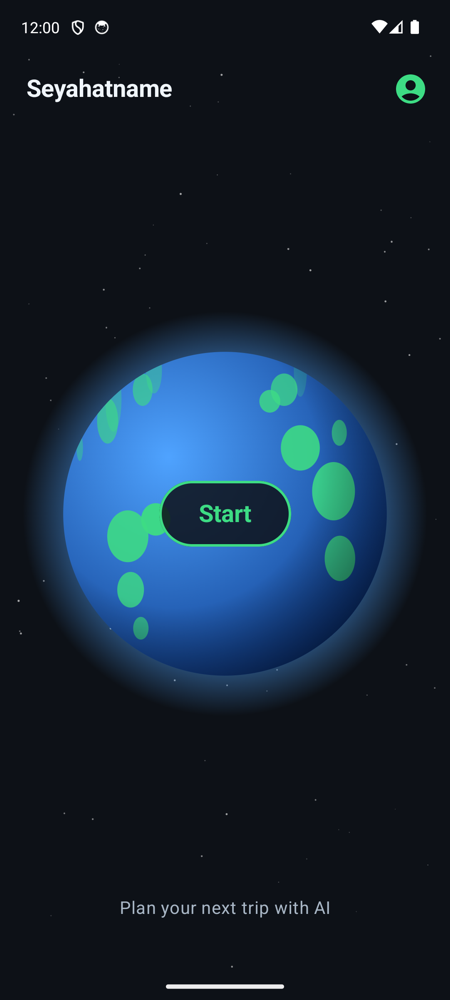
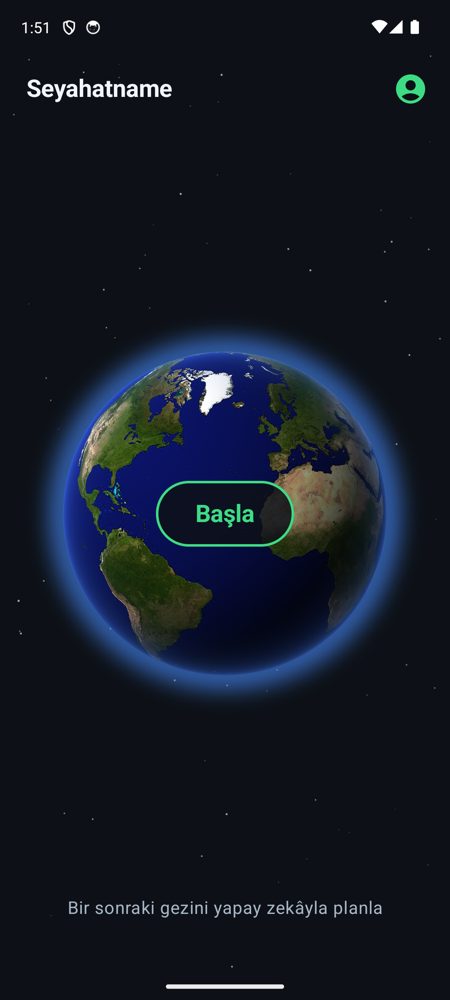
feat: show a photographic Earth on the home screen
The drawn globe looked like a toy. On Android 13+ the Earth is now
NASA's Blue Marble imagery (public domain, 1920x960, via Wikimedia
Commons) wrapped on a sphere by an AGSL shader: tilted so the north
shows, Turkey facing the viewer at launch, lit from the upper left
with a dark night side, a blue haze toward the rim and an atmosphere
glow, turning once a minute. The oceans of the source image are lifted
toward the blue seen from orbit. Older phones, and the Moon and Sun
themes, keep the Canvas drawing.

Changed region(s): [[0.0933, 0.341, 0.9022, 0.713], [0.1556, 0.899, 0.84, 0.93], [0.0622, 0.0, 0.2489, 0.031]]

diff --git a/app/src/main/java/com/ogzhngms/seyahatname/ui/Planet.kt b/app/src/main/java/com/ogzhngms/seyahatname/ui/Planet.kt
@@ -1,24 +1,36 @@
 package com.ogzhngms.seyahatname.ui
 
+import android.graphics.BitmapFactory
+import android.graphics.BitmapShader
+import android.graphics.RuntimeShader
+import android.graphics.Shader
+import android.os.Build
+import androidx.annotation.RequiresApi
 import androidx.compose.animation.core.LinearEasing
 import androidx.compose.animation.core.animateFloat
 import androidx.compose.animation.core.infiniteRepeatable
 import androidx.compose.animation.core.rememberInfiniteTransition
 import androidx.compose.animation.core.tween
 import androidx.compose.foundation.Canvas
+import androidx.compose.foundation.layout.Box
 import androidx.compose.foundation.layout.aspectRatio
 import androidx.compose.runtime.Composable
 import androidx.compose.runtime.getValue
+import androidx.compose.runtime.remember
 import androidx.compose.ui.Modifier
+import androidx.compose.ui.draw.drawBehind
 import androidx.compose.ui.geometry.Offset
 import androidx.compose.ui.geometry.Rect
 import androidx.compose.ui.geometry.Size
 import androidx.compose.ui.graphics.Brush
 import androidx.compose.ui.graphics.Color
 import androidx.compose.ui.graphics.Path
+import androidx.compose.ui.graphics.ShaderBrush
 import androidx.compose.ui.graphics.drawscope.DrawScope
 import androidx.compose.ui.graphics.drawscope.clipPath
+import androidx.compose.ui.platform.LocalContext
 import com.ogzhngms.seyahatname.Planet
+import com.ogzhngms.seyahatname.R
 import kotlin.math.cos
 import kotlin.math.sin
 import kotlin.math.sqrt
@@ -40,9 +52,78 @@ private val CRATERS = listOf(
 )
 private val SUNSPOTS = listOf(Spot(-40f, 15f, 0.12f), Spot(60f, -20f, 0.10f), Spot(150f, 30f, 0.14f), Spot(-140f, -35f, 0.09f))
 
-// The home-screen planet, turning once every 40 seconds.
+// The Earth from NASA's Blue Marble imagery, wrapped on a sphere on the GPU (Android 13+).
+// Tilted so the north shows, Turkey faces the viewer at start, one turn a minute.
+private const val EARTH_SHADER = """
+uniform shader earth;
+uniform float2 size;
+uniform float2 textureSize;
+uniform float turn;
+
+const float PI = 3.14159265;
+const float TILT = 0.40;
+const float START_LON = 0.61;
+
+half4 main(float2 coord) {
+    float r = min(size.x, size.y) * 0.4;
+    float2 p = (coord - size * 0.5) / r;
+    float d = length(p);
+    float edge = 1.5 / r;
+    float halo = smoothstep(1.28, 1.0, d);
+    half4 glow = half4(0.28, 0.55, 1.0, 1.0) * half(halo * halo * 0.55);
+    if (d > 1.0 + edge) return glow;
+
+    float3 n = float3(p.x, -p.y, sqrt(max(0.0, 1.0 - d * d)));
+    float3 t = float3(n.x, n.y * cos(TILT) + n.z * sin(TILT), -n.y * sin(TILT) + n.z * cos(TILT));
+    float lat = asin(clamp(t.y, -1.0, 1.0));
+    float lon = atan(t.x, t.z) + START_LON - turn * 2.0 * PI;
+    float2 uv = float2(fract(lon / (2.0 * PI) + 0.5), 0.5 - lat / PI);
+    half3 surface = earth.eval(uv * textureSize).rgb;
+    // The source oceans are near-black navy; lift them toward the blue seen from orbit.
+    half ocean = half(smoothstep(0.05, 0.25, float(surface.b - max(surface.r, surface.g))));
+    surface = mix(surface, surface * half3(0.7, 1.3, 2.1) + half3(0.0, 0.04, 0.10), ocean);
+
+    float light = clamp(dot(n, normalize(float3(-0.55, 0.45, 0.70))), 0.0, 1.0);
+    float haze = pow(1.0 - n.z, 3.0);
+    half3 rgb = surface * half(0.16 + 0.95 * light) + half3(0.30, 0.55, 1.0) * half(haze * 0.65);
+    return mix(half4(rgb, 1.0), glow, half(smoothstep(1.0 - edge, 1.0 + edge, d)));
+}
+"""
+
+@RequiresApi(Build.VERSION_CODES.TIRAMISU)
+@Composable
+private fun RealisticEarth(modifier: Modifier) {
+    val resources = LocalContext.current.resources
+    val shader = remember {
+        val texture = BitmapFactory.decodeResource(resources, R.drawable.earth_texture)
+        RuntimeShader(EARTH_SHADER).apply {
+            val sampler = BitmapShader(texture, Shader.TileMode.REPEAT, Shader.TileMode.CLAMP)
+            sampler.filterMode = BitmapShader.FILTER_MODE_LINEAR
+            setInputShader("earth", sampler)
+            setFloatUniform("textureSize", texture.width.toFloat(), texture.height.toFloat())
+        }
+    }
+    val brush = remember(shader) { ShaderBrush(shader) }
+    val turn by rememberInfiniteTransition(label = "earth").animateFloat(
+        initialValue = 0f,
+        targetValue = 1f,
+        animationSpec = infiniteRepeatable(tween(60_000, easing = LinearEasing)),
+        label = "earth",
+    )
+    Box(
+        modifier.aspectRatio(1f).drawBehind {
+            shader.setFloatUniform("size", size.width, size.height)
+            shader.setFloatUniform("turn", turn)
+            drawRect(brush)
+        },
+    )
+}
+
+// The home-screen planet. The Earth is photographic on Android 13+; the Moon, the Sun and
+// older phones get the drawn version, turning once every 40 seconds.
 @Composable
 fun PlanetView(planet: Planet, modifier: Modifier = Modifier) {
+    if (planet == Planet.EARTH && Build.VERSION.SDK_INT >= Build.VERSION_CODES.TIRAMISU) return RealisticEarth(modifier)
     val turn by rememberInfiniteTransition(label = "turn").animateFloat(
         initialValue = 0f,
         targetValue = 360f,
